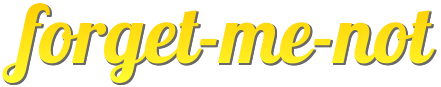
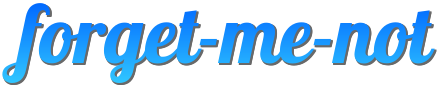
Organize stylings

Changed region(s): [[0.0, 0.023, 1.0, 0.9655]]

diff --git a/public/css/application.css b/public/css/application.css
@@ -1,6 +1,5 @@
 body {
   margin: 0;
-  background-color: #ffe;
   overflow: hidden;
 }
 
@@ -19,10 +18,13 @@ body {
   float: left;
   position: relative;
   height: 100%;
-  width: 50%;
+  width: 30%;
 }
 
 .date-control {
+  height: 1rem;
+  padding: 1rem 0;
+  margin: 4px 0;
 }
 
 .date-control p {
@@ -31,10 +33,13 @@ body {
 }
 
 .schedule-inner {
-  border: solid 1px #aaa;
-  height: calc(100% - 24px);
+  height: calc(100vh - 76px - 3rem);
   overflow-y: scroll;
   clear: both;
+}
+
+.schedule-inner::-webkit-scrollbar {
+  display: none;
 }
 
 .time-box {
@@ -95,14 +100,17 @@ body {
 
 .entries {
   position: absolute;
-  height: calc(100% - 41px);
+  height: calc(100vh - 76px - 3rem);
   width: 50%;
 }
 
 .acc-content {
   overflow-y: scroll;
-  position: inherit;
   height: inherit;
+}
+
+.acc-content::-webkit-scrollbar {
+  display: none;
 }
 
 .koma {
@@ -128,9 +136,9 @@ body {
 
 .navbar-inner {
   padding: 0 20px;
-  background-color: #9cf;
+  background-color: #97D5D9;
   margin-bottom: 8px;
-  min-height: 80px;
+  min-height: 58px;
 }
 
 .container-narrow {
@@ -141,7 +149,6 @@ body {
 .navbar img.icon {
   float: right;
   padding: 10px;
-  margin-top: 10px;
   width: 40px;
   border-radius: 40px;
 }
@@ -149,7 +156,7 @@ body {
 .navbar img.logo {
   float: left;
   padding: 10px;
-  height: 64px;
+  height: 38px;
 }
 
 .navbar .title {
@@ -187,24 +194,14 @@ nav li.selected a {
     color: #fff;
 }
 
-.tab-content {
-  border: 1px solid #8af;
-  padding: 8px;
-  background-color: #fff;
-}
-
-#todo-tab {
-  position: relative;
-  height: calc(100vh - 162px);
-}
-
-#todo-tab>div {
-  height: 100%;
-}
-
 .todo-view {
     float: left;
-    width: 50%;
+    width: 70%;
+}
+
+.todo-view .todo-input {
+  height: 3rem;
+  margin: 4px 0;
 }
 
 .todo-view img.pomodoro {
@@ -220,6 +217,8 @@ nav li.selected a {
 }
 
 .todo-view span.pomodoro {
+  position: absolute;
+  right: 2rem;
   margin-left: 0.3em;
 }
 
@@ -235,9 +234,16 @@ nav li.selected a {
   font-size: 32px;
   width: 80%;
   border: none;
-  border-bottom: solid 1px #888;
+  border-bottom: solid 1px #a8a8a8;
   outline: none;
   margin-left: 12px;
+}
+
+.description {
+  border: solid 1px #a8a8a8;
+  border-radius: 3px;
+  height: 4rem;
+  padding: 8px;
 }
 
 .description.done {

diff --git a/app/views/todo_view.rb b/app/views/todo_view.rb
@@ -104,19 +104,19 @@ class TodoView
   def render
     div(nil,
       div({class: 'todo-view'},
-        label({'for': 'new-todo'}, 'Todo:'),
-        input(
-          id: 'new-todo',
-          class: 'new-todo',
-          type: 'text',
-          onKeyDown: -> (event) { handle_input_on_keydown(event) },
-          ref: 'new-todo'),
+        div({class: 'todo-input'},
+          label({'for': 'new-todo'}, 'Todo:'),
+          input(
+            id: 'new-todo',
+            class: 'new-todo',
+            type: 'text',
+            onKeyDown: -> (event) { handle_input_on_keydown(event) },
+            ref: 'new-todo')),
         div({class: 'entries'},
           div({class:"acc-content"},
             TodoList.el(
               collection: @state[:entries],
               order_popup: -> (evt, entry) {
-                pp evt
                 @current_entry = entry
                 set_state(
                   order_popup_visible: true,
